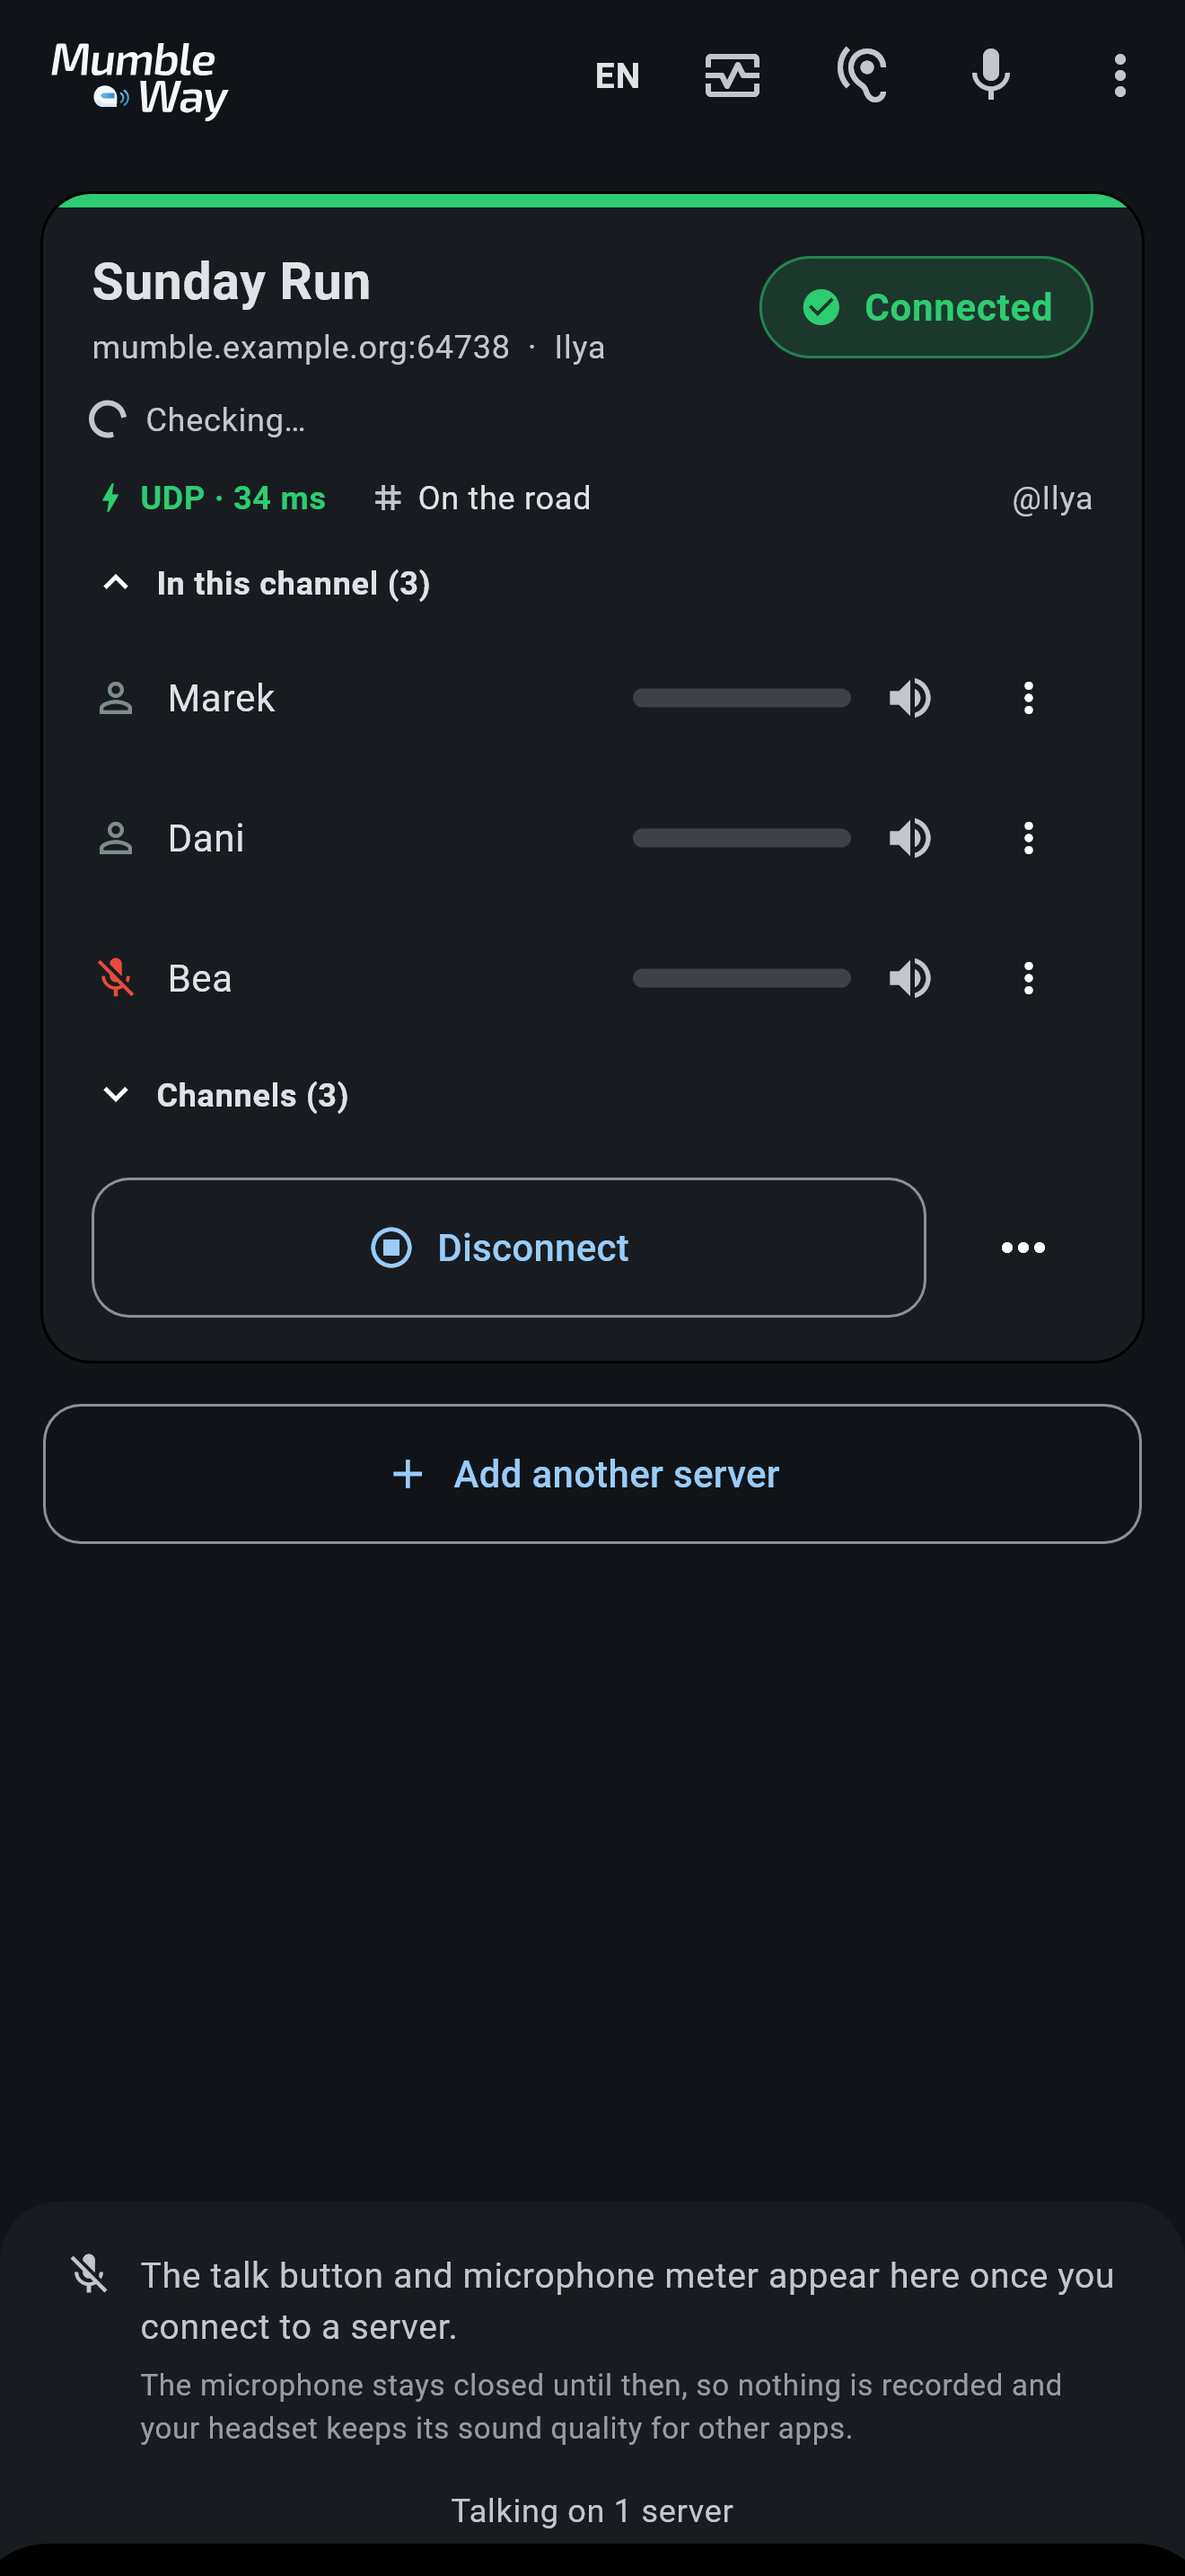
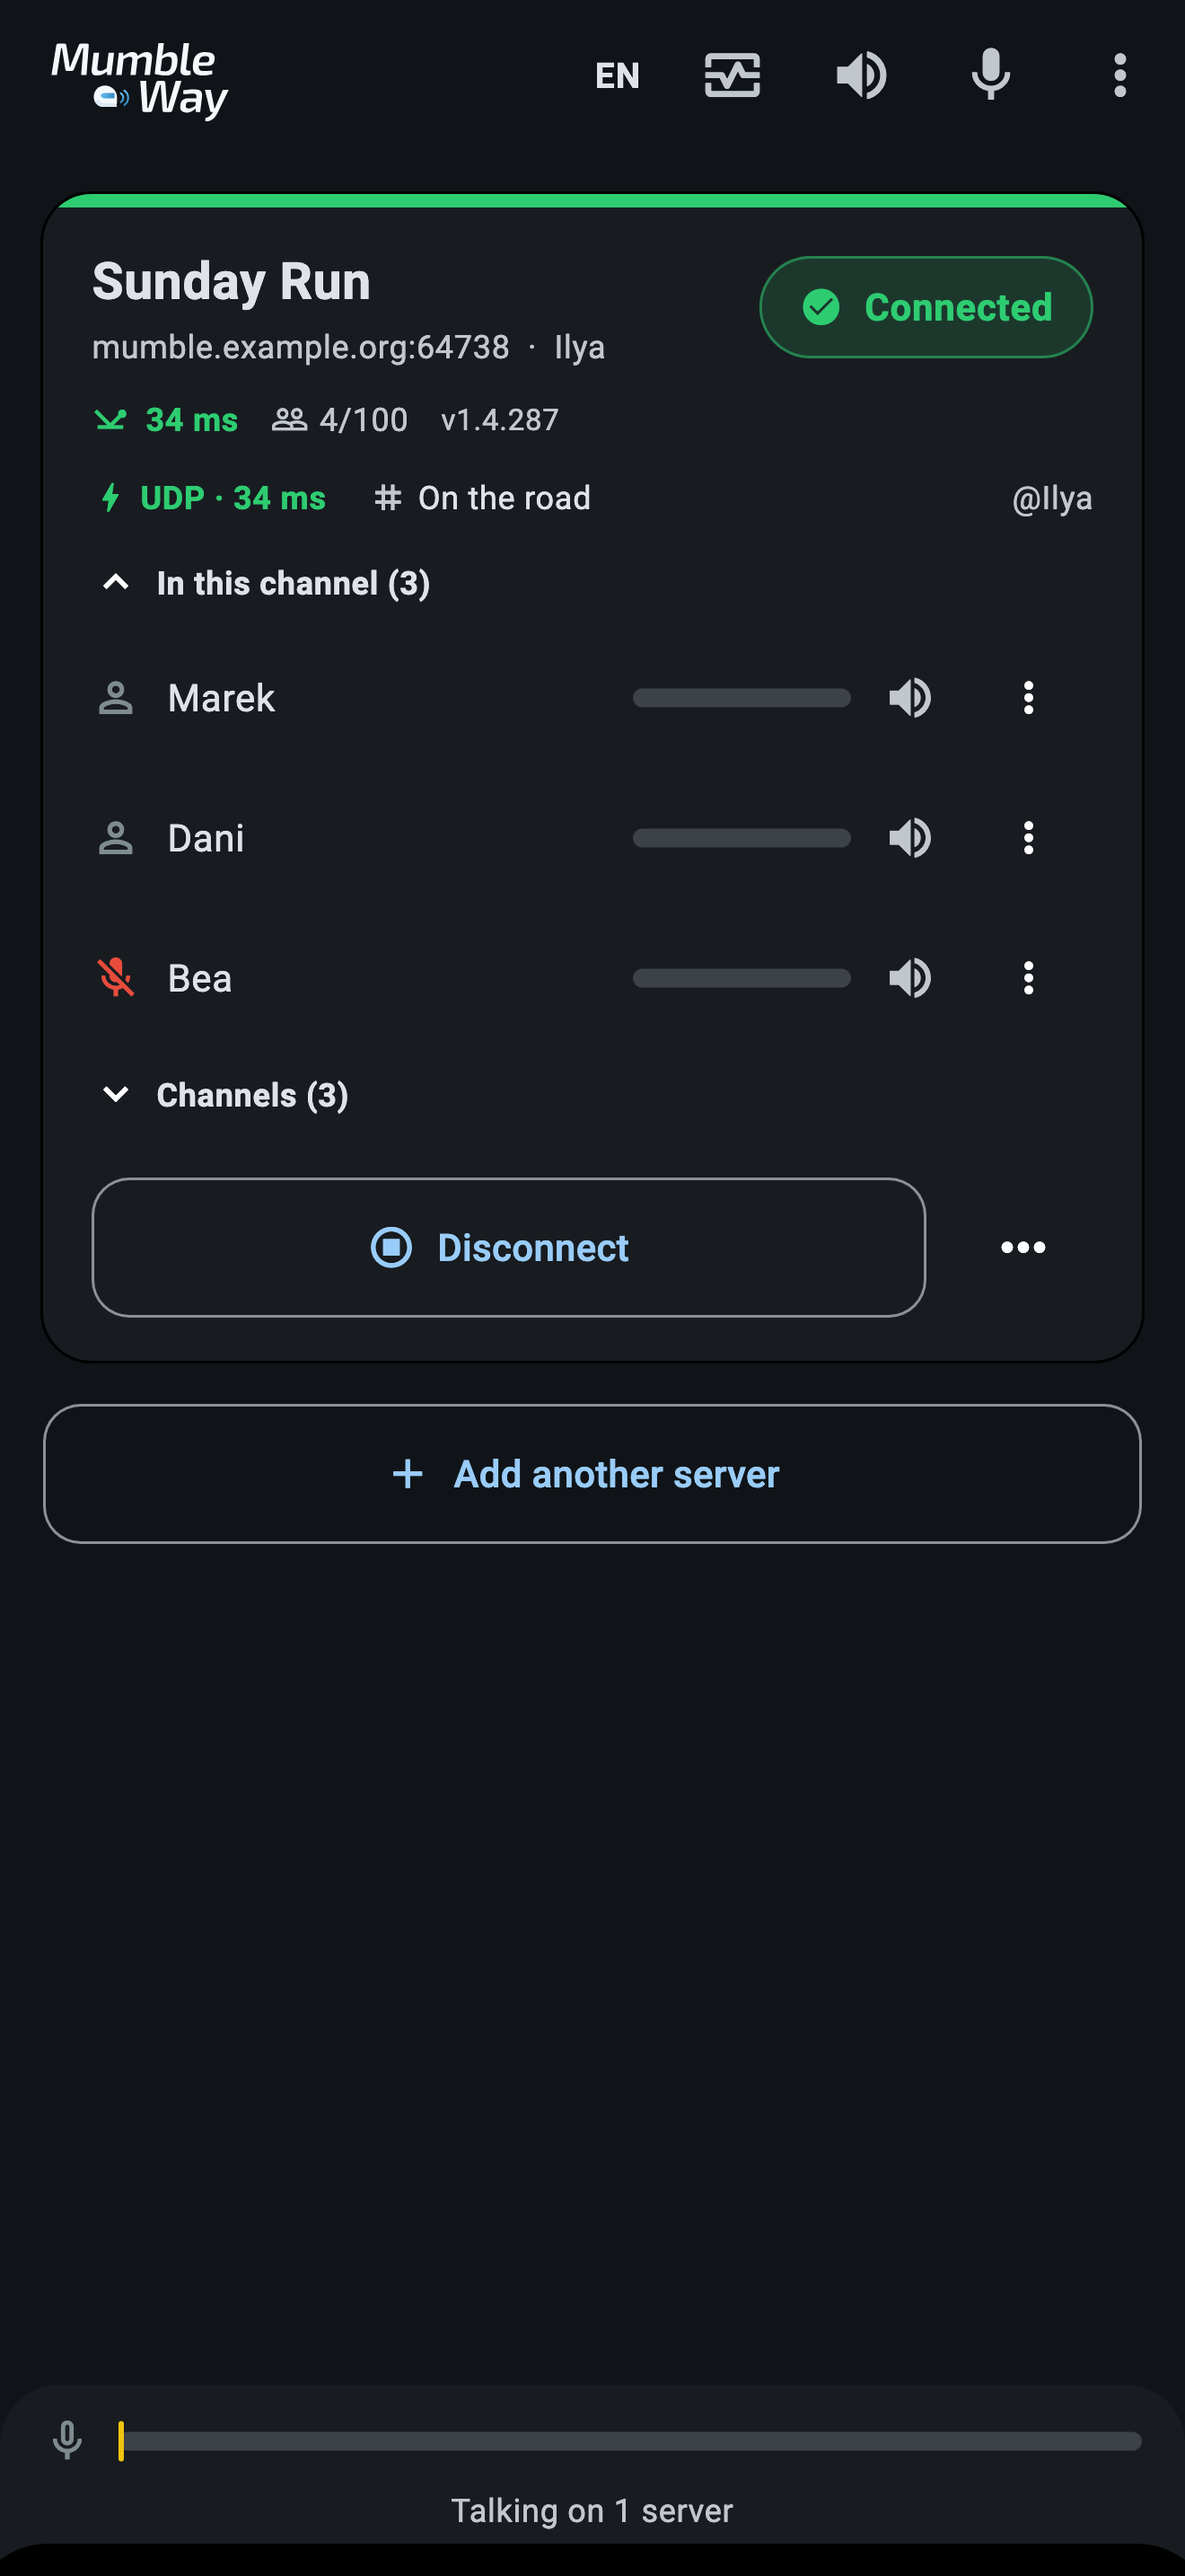
Re-take the Apple screenshots, and fix the three faults that made them unshippable
Every Apple screenshot is regenerated from HEAD in both languages. Three of
them could not have been uploaded at all, and none of the three is visible by
looking at the picture.

**Every one carried an alpha channel.** Apple's rule is "Images cannot include
alpha channels or transparencies", and it is enforced at upload, after the
listing form is filled in, rather than at review. `ImageByteFormat.png` always
writes RGBA, so all 22 had one. The pixels underneath were fully opaque, which
is why nothing ever looked wrong and why nothing caught it -- the harness
asserted width and height, and a channel is neither. `_capture` now re-encodes
to three channels and the test reads the IHDR colour type back off the file it
just wrote, because the thing worth checking is what was written.

**Eight Mac shots were 1366x768, which Apple does not accept.** The Mac sizes
are 16:10 only -- 1280x800, 1440x900, 2560x1600, 2880x1800. 1366x768 is 16:9,
so settings, addServer and diagnostics have had no uploadable Mac screenshot
for as long as they have existed; home-mac-2880x1800 was the only valid file in
the directory. Now 1280x800, which keeps the reason that size was chosen: it is
the one the desktop layout is tightest in. The Microsoft entry keeps 1366x768,
which is Microsoft's own floor.

**The home shots contradicted themselves.** A card reading "Connected" sat
directly above "The microphone meter appears here once you connect to a
[…]

diff --git a/app/test/store_screenshots_test.dart b/app/test/store_screenshots_test.dart
@@ -6,6 +6,7 @@ import 'package:flutter/rendering.dart';
 import 'package:flutter/services.dart';
 import 'package:flutter_localizations/flutter_localizations.dart';
 import 'package:flutter_test/flutter_test.dart';
+import 'package:image/image.dart' as img;
 import 'package:mumbleway/l10n/app_localizations.dart';
 import 'package:mumbleway/screens/add_server_screen.dart';
 import 'package:mumbleway/screens/home_screen.dart';
@@ -84,10 +85,18 @@ void main() {
     _Shot('app-store', 'iphone-6.5', 1242, 2688, 3),
     _Shot('app-store', 'ipad-12.9', 2048, 2732, 2),
     _Shot('mac-app-store', 'mac', 2880, 1800, 2),
-    // 1366x768 at ratio 1 is a small laptop, and it is the size worth having
-    // because it is the one the desktop layout is tightest in -- if the panel
-    // fits here it fits everywhere above.
-    _Shot('mac-app-store', 'mac-small', 1366, 768, 1, everyScene: true),
+    // A small laptop, and the size worth having because it is the one the
+    // desktop layout is tightest in -- if the panel fits here it fits
+    // everywhere above.
+    //
+    // 1280x800 rather than the 1366x768 this used to be. **Apple accepts only
+    // 16:10 for Mac**: 1280x800, 1440x900, 2560x1600, 2880x1800 and nothing
+    // else. 1366x768 is 16:9, so the settings, addServer and diagnostics Mac
+    // shots were unuploadable for as long as they existed -- the store refuses
+    // them at upload, after the form is filled in, and only home-mac-2880x1800
+    // ever had a valid size. The Microsoft entry below keeps 1366x768 because
+    // that is Microsoft's own floor and Microsoft accepts it.
+    _Shot('mac-app-store', 'mac-small', 1280, 800, 1, everyScene: true),
     // Play takes anything between 320 and 3840 on the short side, 16:9-ish.
     _Shot('google-play', 'phone', 1080, 2400, 3),
     _Shot('google-play', 'tablet-10', 1600, 2560, 2),
@@ -163,6 +172,21 @@ void main() {
       expect(file.existsSync(), isTrue);
       expect(width, shot.width);
       expect(height, shot.height);
+      // Colour type 6 is truecolour-with-alpha. Apple refuses that at upload,
+      // and every Apple screenshot in this repository carried it until the
+      // encoder above was changed -- invisibly, because the channel was fully
+      // opaque. Assert what was written, not what was drawn.
+      expect(
+        _pngColourType(file),
+        2,
+        reason: 'a store screenshot must carry no alpha channel',
+      );
+
+      // `markAudioActiveForTesting` starts the relief poll timer, and the
+      // binding asserts no timer is pending once the tree is disposed. That
+      // check runs at the end of the body, *before* any `addTearDown`, so
+      // registering the dispose there is too late -- it has to be here.
+      state.dispose();
     });
   }
   }
@@ -277,7 +301,16 @@ AppState _connectedState() {
   final state = AppState()
     // Every screen is gated on this; without it the whole app is a spinner and
     // the screenshot is a picture of one.
-    ..markReadyForTesting();
+    ..markReadyForTesting()
+    // Without this the talk panel draws `_MicIdleNotice` instead of the meter,
+    // because that panel keys on `audioActive` rather than on the connection.
+    // The result was a screenshot that contradicted itself: a card reading
+    // **Connected** directly above the sentence "The microphone meter appears
+    // here once you connect to a server." Both halves were behaving correctly
+    // -- there is no engine behind a widget test, so the microphone really was
+    // shut -- which is exactly why it survived. The hook to say otherwise has
+    // existed since the probe-spinner work and this harness never called it.
+    ..markAudioActiveForTesting();
   final server = SavedServer(
     name: 'Sunday Run',
     host: 'mumble.example.org',
@@ -288,6 +321,18 @@ AppState _connectedState() {
   state.servers.add(server);
 
   final runtime = state.runtimeFor(server.id);
+  // Without a probe the card's reachability line is a spinner reading
+  // "Checking…", which in a store screenshot is a picture of the app thinking
+  // rather than of the app working. Same reasoning as `markReadyForTesting`
+  // above, which exists because the toolbar had the same problem.
+  runtime.probe = UiServerStatus(
+    serverId: server.id,
+    reachable: true,
+    pingMs: 34,
+    users: 4,
+    maxUsers: 100,
+    version: '1.4.287',
+  );
   runtime.status = ConnStatus.connected;
   runtime.selfSession = 1;
   runtime.transport = 'udp';
@@ -357,14 +402,40 @@ AppState _connectedState() {
   return state;
 }
 
+/// Writes the boundary to a PNG **with no alpha channel**.
+///
+/// Apple refuses a screenshot that carries transparency -- "Images cannot
+/// include alpha channels or transparencies" -- and it refuses it at upload,
+/// after the listing form is filled in, rather than at review. Flutter's own
+/// PNG encoder (`ImageByteFormat.png`) always writes RGBA, so every Apple
+/// screenshot this harness produced carried a channel the store rejects. The
+/// pixels underneath were fully opaque, which is why nothing ever looked
+/// wrong and why nothing caught it.
+///
+/// So the raw RGBA is re-encoded to three channels. That is a channel drop,
+/// not a composite: there is nothing to flatten against.
 Future<void> _capture(GlobalKey key, File file, double ratio) async {
   final boundary = key.currentContext!.findRenderObject()! as RenderRepaintBoundary;
   final image = await boundary.toImage(pixelRatio: ratio);
-  final data = await image.toByteData(format: ui.ImageByteFormat.png);
+  final data = await image.toByteData(format: ui.ImageByteFormat.rawRgba);
+  final rgba = img.Image.fromBytes(
+    width: image.width,
+    height: image.height,
+    bytes: data!.buffer,
+    numChannels: 4,
+  );
   file.parent.createSync(recursive: true);
-  file.writeAsBytesSync(data!.buffer.asUint8List());
+  file.writeAsBytesSync(img.encodePng(rgba.convert(numChannels: 3)));
   image.dispose();
 }
+
+/// The PNG colour type, read out of IHDR.
+///
+/// 2 is truecolour, 6 is truecolour with alpha. Read from the bytes rather
+/// than by decoding, because the whole point is to check what was *written*.
+/// Layout: 8-byte signature, then the IHDR chunk -- length, type, width,
+/// height, bit depth, and colour type at offset 25.
+int _pngColourType(File file) => file.readAsBytesSync()[25];
 
 /// Loads the faces the app actually draws with.
 ///

diff --git a/app/lib/widgets/server_detail_pane.dart b/app/lib/widgets/server_detail_pane.dart
@@ -94,11 +94,19 @@ class ServerDetailPane extends StatelessWidget {
         ),
 
         const SizedBox(height: 18),
-        _Heading('In this channel (${rt.channelPeers.length})'),
+        // Both of these headings were hardcoded English while their
+        // translations sat in both .arb files. The desktop pane is the only
+        // place they appear, so a Russian rider saw "IN THIS CHANNEL" and
+        // "CHANNELS" on every Mac, Windows and tablet screen -- and so did
+        // every Russian store screenshot at a desktop size.
+        _Heading(L.of(context).inThisChannel(rt.channelPeers.length)),
         ChannelUserList(serverId: s.id, users: rt.channelPeers),
 
         const SizedBox(height: 22),
-        _Heading('Channels'),
+        // `channelsPlain`, not `channelsHeading` — the latter carries a count
+        // the phone card shows and this pane deliberately does not, and a
+        // translation fix is the wrong place to redesign a heading.
+        _Heading(L.of(context).channelsPlain),
         ChannelTree(
           serverId: s.id,
           channels: rt.channels,

diff --git a/app/lib/widgets/server_card.dart b/app/lib/widgets/server_card.dart
@@ -452,7 +452,15 @@ class _ProbeLine extends StatelessWidget {
             child: CircularProgressIndicator(strokeWidth: 2, color: muted),
           ),
           const SizedBox(width: 8),
-          Text('Checking…', style: TextStyle(fontSize: 12, color: muted)),
+          // Was a hardcoded English literal, while `probeChecking` sat
+          // translated and unused in both .arb files. The l10n test cannot see
+          // this: it checks that a key exists in both languages and differs
+          // between them, which was true the whole time -- nothing checks that
+          // a key is *reached*. It showed as "Checking…" on a Russian phone.
+          Text(
+            L.of(context).probeChecking,
+            style: TextStyle(fontSize: 12, color: muted),
+          ),
         ],
       );
     }

diff --git a/app/lib/l10n/app_localizations.dart b/app/lib/l10n/app_localizations.dart
@@ -1159,6 +1159,12 @@ abstract class L {
   /// **'Channels ({count})'**
   String channelsHeading(int count);
 
+  /// No description provided for @channelsPlain.
+  ///
+  /// In en, this message translates to:
+  /// **'Channels'**
+  String get channelsPlain;
+
   /// No description provided for @noChannelsYet.
   ///
   /// In en, this message translates to:

diff --git a/app/lib/l10n/app_localizations_ru.dart b/app/lib/l10n/app_localizations_ru.dart
@@ -591,6 +591,9 @@ class LRu extends L {
   }
 
   @override
+  String get channelsPlain => 'Каналы';
+
+  @override
   String get noChannelsYet => 'Каналов пока нет.';
 
   @override

diff --git a/app/lib/l10n/app_localizations_en.dart b/app/lib/l10n/app_localizations_en.dart
@@ -587,6 +587,9 @@ class LEn extends L {
   }
 
   @override
+  String get channelsPlain => 'Channels';
+
+  @override
   String get noChannelsYet => 'No channels yet.';
 
   @override
